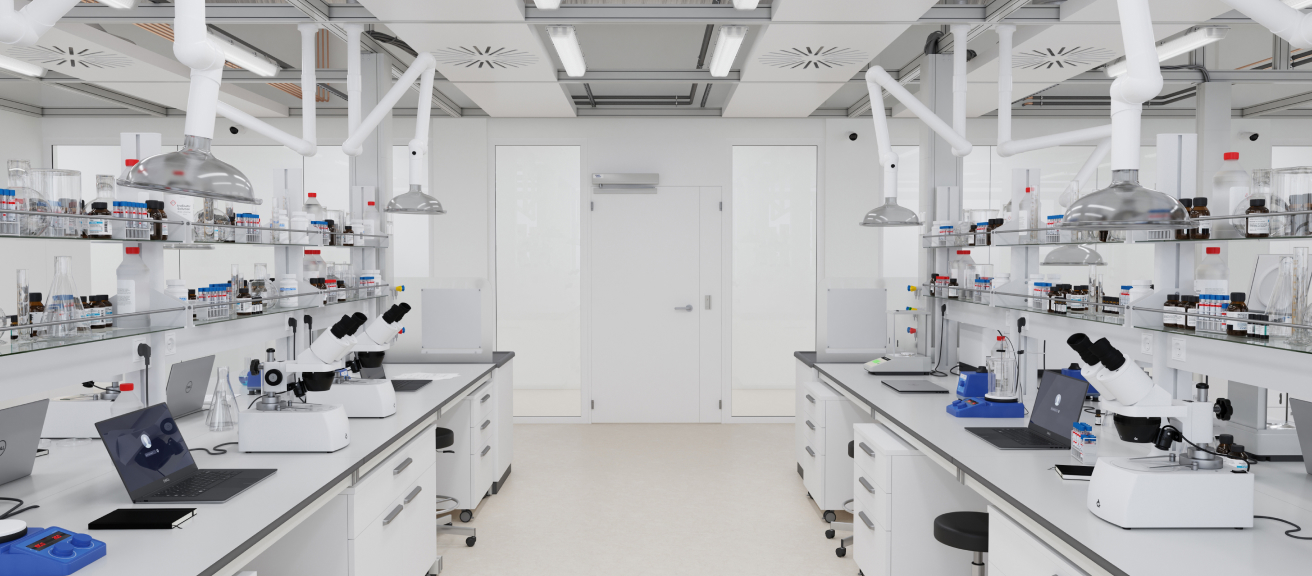
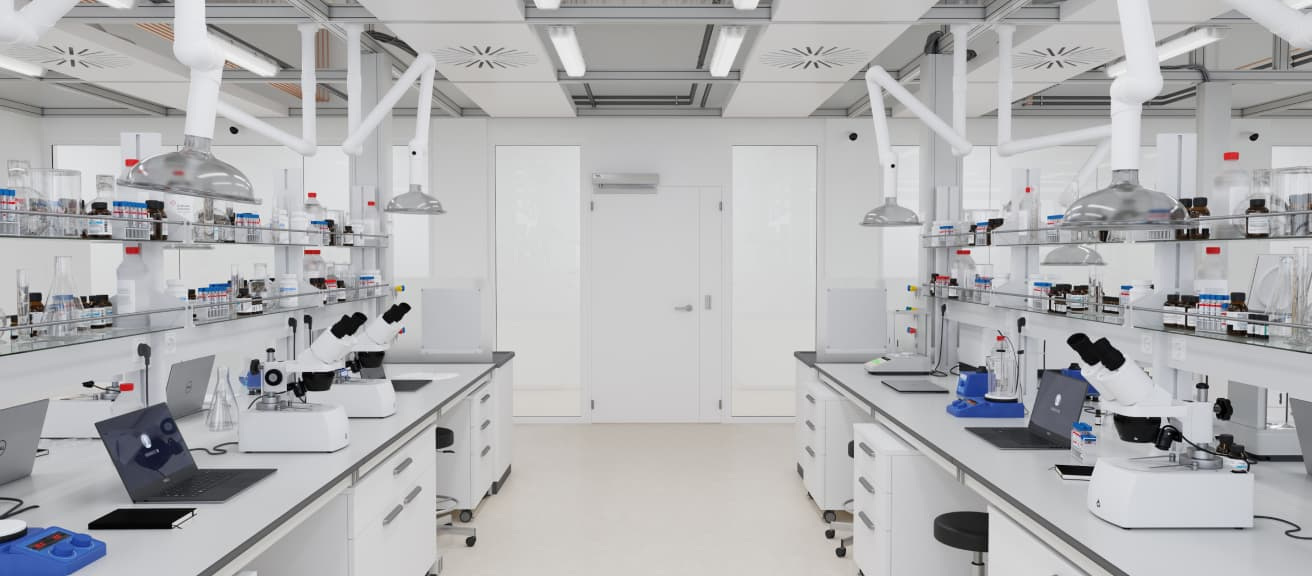
WebP + retina final

diff --git a/source/index.html b/source/index.html
@@ -50,7 +50,8 @@
       <div class="hero__img">
         <picture>
           <source type="image/webp" srcset="img/hero.webp 1x, img/hero@2x.webp 2x">
-          <img class="" src="img/hero.jpg" srcset="img/hero@2x.jpg 2x" width="328" height="184" alt="Лаборант держит пробирку">
+          <img class="" src="img/hero.jpg" srcset="img/hero@2x.jpg 2x" width="328" height="184"
+            alt="Лаборант держит пробирку">
         </picture>
 
       </div>
@@ -95,17 +96,17 @@
 
         <div class="vaccine__groupe">
           <div class="vaccine__wrapper">
-            <img src="img/moderna.svg" width="74" height="17" alt="Логотип Moderna"></img>
+            <img src="img/moderna.svg" width="74" height="17" alt="Логотип Moderna">
             <div class="vaccine__name vaccine__name--first">Moderna</div>
             <div class="vaccine__percent">+313.1%</div>
           </div>
           <div class="vaccine__wrapper">
-            <img src="img/astraZeneca.svg" width="94" height="24" alt="Логотип AstraZeneca"></img>
+            <img src="img/astraZeneca.svg" width="94" height="24" alt="Логотип AstraZeneca">
             <div class="vaccine__name vaccine__name--second">AstraZeneca</div>
             <div class="vaccine__percent">+286.8%</div>
           </div>
           <div class="vaccine__wrapper">
-            <img src="img/pfizer.svg" width="40" height="24" alt="Логотип Pfizer"></img>
+            <img src="img/pfizer.svg" width="40" height="24" alt="Логотип Pfizer">
             <div class="vaccine__name vaccine__name--third">Pfizer</div>
             <div class="vaccine__percent">+218.4%</div>
           </div>
@@ -152,31 +153,37 @@
       <div class="achievements">
         <div class="achievements__img">
           <picture>
-            <source type="image/webp" media="(min-width: 1200px)" srcset="img/newsBlock1Desktop.webp 1x, img/newsBlock1Desktop@2x.webp 2x">
+            <source type="image/webp" media="(min-width: 1200px)"
+              srcset="img/newsBlock1Desktop.webp 1x, img/newsBlock1Desktop@2x.webp 2x">
             <source type="image/webp" srcset="img/newsBlock1.webp 1x, img/newsBlock1@2x.webp 2x">
 
             <source media="(min-width: 1200px)" srcset="img/newsBlock1Desktop.jpg 1x, img/newsBlock1Desktop@2x.jpg 2x">
-            <img class="" src="img/newsBlock1.jpg" srcset="img/newsBlock1@2x.jpg 2x" width="311" height="296" alt="Новость 'Экономическая правда'">
+            <img class="" src="img/newsBlock1.jpg" srcset="img/newsBlock1@2x.jpg 2x" width="311" height="296"
+              alt="Новость 'Экономическая правда'">
           </picture>
         </div>
 
         <div class="achievements__img">
           <picture>
-            <source type="image/webp" media="(min-width: 1200px)" srcset="img/newsBlock2Desktop.webp 1x, img/newsBlock2Desktop@2x.webp 2x">
+            <source type="image/webp" media="(min-width: 1200px)"
+              srcset="img/newsBlock2Desktop.webp 1x, img/newsBlock2Desktop@2x.webp 2x">
             <source type="image/webp" srcset="img/newsBlock2.webp 1x, img/newsBlock2@2x.webp 2x">
 
             <source media="(min-width: 1200px)" srcset="img/newsBlock2Desktop.jpg 1x, img/newsBlock2Desktop@2x.jpg 2x">
-            <img class="" src="img/newsBlock2.jpg" srcset="img/newsBlock2@2x.jpg 2x" width="311" height="408" alt="Новость 'Лига.Нет'">
+            <img class="" src="img/newsBlock2.jpg" srcset="img/newsBlock2@2x.jpg 2x" width="311" height="408"
+              alt="Новость 'Лига.Нет'">
           </picture>
         </div>
 
         <div class="achievements__img">
           <picture>
-            <source type="image/webp" media="(min-width: 1200px)" srcset="img/newsBlock3Desktop.webp 1x, img/newsBlock3Desktop@2x.webp 2x">
+            <source type="image/webp" media="(min-width: 1200px)"
+              srcset="img/newsBlock3Desktop.webp 1x, img/newsBlock3Desktop@2x.webp 2x">
             <source type="image/webp" srcset="img/newsBlock3.webp 1x, img/newsBlock3@2x.webp 2x">
 
             <source media="(min-width: 1200px)" srcset="img/newsBlock3Desktop.jpg 1x, img/newsBlock3Desktop@2x.jpg 2x">
-            <img class="" src="img/newsBlock3.jpg" srcset="img/newsBlock3@2x.jpg 2x" width="311" height="492" alt="Новость 'РБК'">
+            <img class="" src="img/newsBlock3.jpg" srcset="img/newsBlock3@2x.jpg 2x" width="311" height="492"
+              alt="Новость 'РБК'">
           </picture>
         </div>
       </div>
@@ -190,7 +197,7 @@
       <div class="currency">
         <div class="currency__wrapper">
           <div class="currency__about">
-            <img class="currency__img" src="img/pfizer.svg" width="40" height="24" alt="Логотип Pfizer"></img>
+            <img class="currency__img" src="img/pfizer.svg" width="40" height="24" alt="Логотип Pfizer">
             <span class="currency__name">Pfizer</span>
             <span class="currency__percent">$50.42</span>
           </div>
@@ -201,7 +208,7 @@
 
         <div class="currency__wrapper">
           <div class="currency__about">
-            <img class="currency__img" src="img/astraZeneca.svg" width="94" height="24" alt="Логотип AstraZeneca"></img>
+            <img class="currency__img" src="img/astraZeneca.svg" width="94" height="24" alt="Логотип AstraZeneca">
             <span class="currency__name">AstraZeneca</span>
             <span class="currency__percent">$59.35</span>
           </div>
@@ -212,7 +219,7 @@
 
         <div class="currency__wrapper">
           <div class="currency__about">
-            <img class="currency__img" src="img/moderna.svg" width="74" height="17" alt="Логотип Moderna"></img>
+            <img class="currency__img" src="img/moderna.svg" width="74" height="17" alt="Логотип Moderna">
             <span class="currency__name">Moderna</span>
             <span class="currency__percent">$401.86</span>
           </div>
@@ -224,7 +231,7 @@
         <div class="currency__wrapper">
           <div class="currency__about">
             <img class="currency__img" src="img/johnson&johnson.svg" width="120" height="24"
-              alt="Логотип Johnson & Johnson"></img>
+              alt="Логотип Johnson & Johnson">
             <span class="currency__name">Johnson & Johnson</span>
             <span class="currency__percent">$179.47</span>
           </div>
@@ -239,8 +246,6 @@
           <source media="(min-width: 1200px)" srcset="img/graphDesktop.svg">
           <img class="currency__table" src="img/graph.svg" width="328" height="360" alt="График с курсом акций">
         </picture>
-
-        <!-- <img src="img/graph.svg" width="328" height="360" alt="График с курсом акций"></img> -->
       </div>
     </section>
 
@@ -290,13 +295,14 @@
         </p>
         <p class="how-it-work__more">
           Проект VaccInvest - уникален тем, что анализирует больше связанных с индустрией явлений, чем кто-либо другой:
+        </p>
         <ul class="how-it-work__list">
           <li>темпы производства и поставок медпрепаратов</li>
           <li>актуальную социальную востребованность</li>
           <li>влияние на внутреннюю экономику и геополитику стран</li>
           <li>покрытие транспортных расходов</li>
         </ul>
-        </p>
+
       </div>
     </section>
 
@@ -312,7 +318,7 @@
           </p>
           <div class="calculate__action">
             <label class="calculae__call">Впишите сумму инвестирования
-              <input class="calculate__value" type="text" id="value" name="value" placeholder="200$"></input>
+              <input class="calculate__value" type="text" id="value" name="value" placeholder="200$">
             </label>
           </div>
           <div class="calculate__progress"></div>
@@ -321,7 +327,11 @@
         </div>
 
         <div class="calculate__wrapper calculate__wrapper--img">
-          <img class="calculate__img" src="img/laboratory.jpg" width="320" height="262" alt="Лаборанты в лаборатории">
+          <picture>
+            <source type="image/webp" srcset="img/laboratory.webp 1x, img/laboratory@2x.webp 2x">
+            <img class="calculate__img" src="img/laboratory.jpg" srcset="img/laboratory@2x.jpg 2x" width="320"
+              height="262" alt="Лаборанты в лаборатории">
+          </picture>
         </div>
 
       </div>
@@ -334,13 +344,13 @@
 
       <div class="form__wrapper">
         <label class="visually-hidden" for="name1">Введите имя и фамилию</label>
-        <input type="text" id="name1" name="name" placeholder="Имя Фамилия">
+        <input type="text" id="name2" name="name" placeholder="Имя Фамилия">
 
         <label class="visually-hidden" for="tel1">Введите телефон</label>
-        <input type="tel" id="tel1" name="tel" placeholder="Телефон">
+        <input type="tel" id="tel2" name="tel" placeholder="Телефон">
 
         <label class="visually-hidden" for="email1">Введите email</label>
-        <input type="email" id="email1" name="email1" placeholder="Почта">
+        <input type="email" id="email2" name="email1" placeholder="Почта">
       </div>
 
       <button class="button button--open-navigation-posotion button--desktop-w303-center main-nav__button"

diff --git a/source/sass/blocks/main-section.scss b/source/sass/blocks/main-section.scss
@@ -6,10 +6,13 @@
 
     &--desktop-bcg {
       padding: 64px 120px 80px;
-      background: url("../../img/how-it-workBackground.jpg") no-repeat;
-      background-color: $how-it-workBackground;
+      background: url("../../img/how-it-workBackground.jpg") no-repeat $how-it-workBackground;
       background-size: cover;
       border-radius: 20px;
+
+      @media (min-resolution: 1dppx) {
+        background: url("../../img/how-it-workBackground@2x.jpg") no-repeat $how-it-workBackground;
+      }
     }
   }
 }

diff --git a/source/sass/blocks/calculate.scss b/source/sass/blocks/calculate.scss
@@ -81,4 +81,5 @@
   max-width: 400px;
   object-fit: cover;
   border-radius: 10px;
+  background-color: $calculate-input-border;
 }
